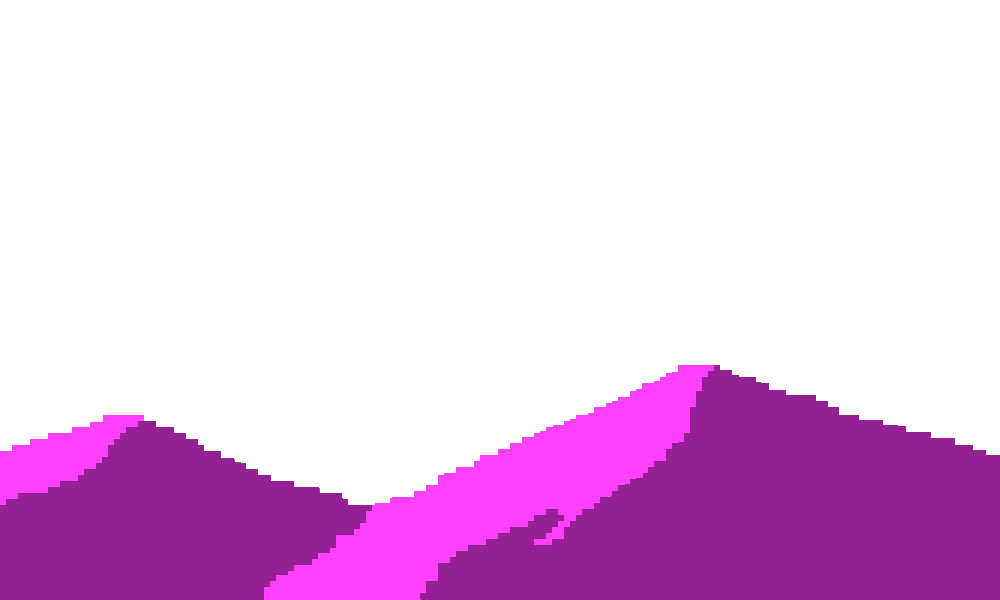
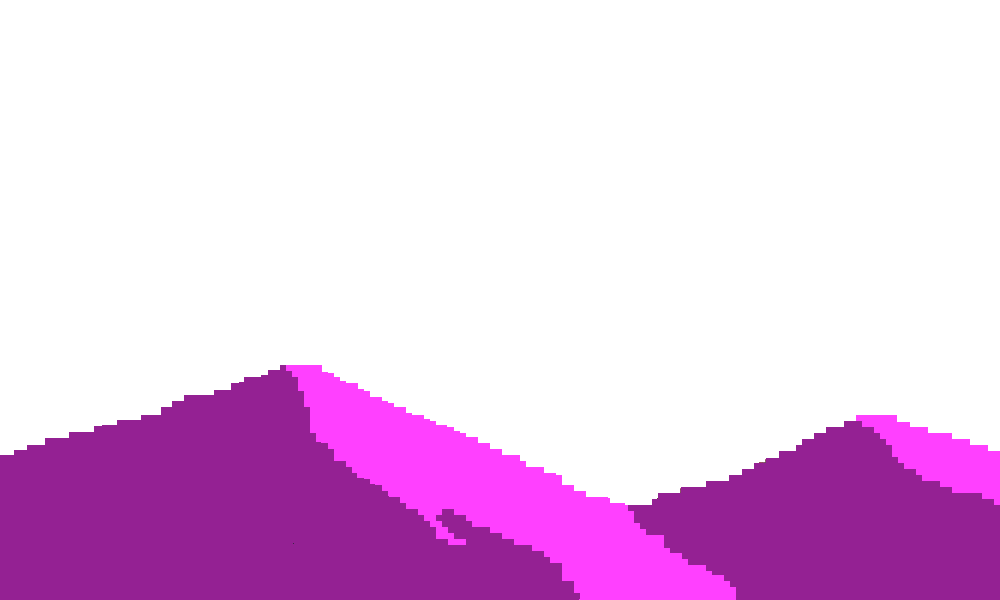
dos jugadores, estructuras, y algunas propiedades de los bloques

Changed region(s): [[0.0, 0.6, 1.0, 1.0]]

diff --git a/main.js b/main.js
@@ -1,5 +1,6 @@
 var canvas = document.getElementById('main-game');
 var ctx = canvas.getContext('2d')
+var images =['assets/player/running.png','assets/player/runningp2.png']
 
 var red = 255
 var green;
@@ -27,7 +28,7 @@ function Background(){
 
   this.move = function(){
     if(this.x < -this.width * 2) this.x = 0;
-    this.x-=2;
+    this.x-=7;
   }
   this.draw = function(){
     this.move()
@@ -43,19 +44,20 @@ function Background(){
   }
 
   this.drawMountain1 = function(){
-    ctx.drawImage(this.imgMountainsOrange,this.x,this.y + 30,this.width,this.height)
-    ctx.drawImage(this.imgMountainsOrange2,this.x +this.width,this.y + 30,this.width,this.height)
-    ctx.drawImage(this.imgMountainsOrange,this.x + this.width * 2,this.y + 30,this.width,this.height)
+    ctx.drawImage(this.imgMountainsOrange,this.x * 2,this.y + 70,this.width,this.height)
+    ctx.drawImage(this.imgMountainsOrange2,this.x*2 +this.width,this.y + 70,this.width,this.height)
+    ctx.drawImage(this.imgMountainsOrange,this.x*2 + this.width * 2,this.y + 70,this.width,this.height)
+    ctx.drawImage(this.imgMountainsOrange2,this.x*2 + this.width * 3,this.y + 70,this.width,this.height)
+    ctx.drawImage(this.imgMountainsOrange,this.x*2 + this.width * 4,this.y + 70,this.width,this.height)
   }
   this.drawMountain2 = function(){
-    var x = this.x /2
-    ctx.drawImage(this.imgMountainsPurple,x - 300,this.y,this.width,this.height)
-    ctx.drawImage(this.imgMountainsPurple2,x - 300 + this.width,this.y,this.width,this.height)
-    ctx.drawImage(this.imgMountainsPurple,x - 300 + this.width * 2,this.y,this.width,this.height)
+    ctx.drawImage(this.imgMountainsPurple,this.x,this.y,this.width,this.height)
+    ctx.drawImage(this.imgMountainsPurple2,this.x + this.width,this.y,this.width,this.height)
+    ctx.drawImage(this.imgMountainsPurple,this.x + this.width * 2,this.y,this.width,this.height)
   }
 }
-function Block(y){
-  this.x = 0;
+function Block(x,y){
+  this.x = x ? x : canvas.width
   this.y = y;
   this.width = 32;
   this.height = 32;
@@ -64,51 +66,126 @@ function Block(y){
 
   this.draw = function(){
     ctx.drawImage(this.img,this.x,this.y,this.width,this.height)
-    this.x += 1
+    this.x -= 1
   }
 }
-function Player(){
+function Structure(){
+  this.x                  = canvas.width
+  this.y                  = canvas.height - 64
+  this.structureSelector  = [
+                              [ new Block(this.x + 160,this.y),
+                                new Block(this.x,this.y -32),
+                                new Block(this.x+32,this.y -32),                               
+                                new Block(this.x + 160,this.y -32),
+                                new Block(this.x,this.y -64),
+                                new Block(this.x + 128,this.y -64),
+                                new Block(this.x + 160,this.y -64),
+                                new Block(this.x,this.y -96),
+                                new Block(this.x,this.y -128),
+                                new Block(this.x,this.y -160),
+                                new Block(this.x + 32,this.y -160),
+                                new Block(this.x + 64,this.y -160),
+                                new Block(this.x + 96,this.y -160),
+                                new Block(this.x + 128,this.y -160),
+                                new Block(this.x + 160,this.y -160),
+                              ],
+                              [ new Block(this.x,this.y),
+                                new Block(this.x + 32,this.y),
+                                new Block(this.x + 64,this.y),
+                                new Block(this.x + 224,this.y),
+                                new Block(this.x + 256,this.y),
+                                new Block(this.x + 32,this.y - 32),
+                                new Block(this.x + 64,this.y - 32),
+                                new Block(this.x + 128,this.y - 32),
+                                new Block(this.x + 160,this.y - 32),
+                                new Block(this.x + 256,this.y - 32),
+                                new Block(this.x + 64,this.y - 64),
+                                new Block(this.x + 128,this.y - 64),
+                                new Block(this.x + 128,this.y - 96),
+                                new Block(this.x + 160,this.y - 96),
+                                new Block(this.x + 192,this.y - 96),
+                                new Block(this.x + 224,this.y - 96),
+                                new Block(this.x + 256,this.y - 96)
+                              ],
+                              [ new Block(this.x,this.y),
+                                new Block(this.x + 128,this.y),
+                                new Block(this.x + 160,this.y),
+                                new Block(this.x + 192,this.y),
+                                new Block(this.x + 64,this.y - 32),
+                                new Block(this.x + 160,this.y - 32),
+                                new Block(this.x + 192,this.y - 32),
+                                new Block(this.x + 32,this.y - 64),
+                                new Block(this.x + 64,this.y - 64),
+                                new Block(this.x + 96,this.y - 64),
+                                new Block(this.x + 192,this.y - 64),
+                                new Block(this.x + 32,this.y - 96),
+                                new Block(this.x + 192,this.y - 96),
+                                new Block(this.x + 96,this.y - 128),
+                                new Block(this.x + 128,this.y - 128),
+                                new Block(this.x + 160,this.y - 128),
+                                new Block(this.x + 192,this.y - 128),
+
+                              ]
+                            ]
+  this.img = new Image()
+  this.img.src = 'assets/block.png'
+
+  this.draw = function(){
+    structures.push(this.structureSelector[structureNumber])
+  this.x -= 1
+}
+}
+function Player(image){
   this.which     = true;
-  this.x         = 50;
+  this.x         = canvas.width - 32;
   this.y         = 50;
-  this.width     = 21;
-  this.height    = 36;
+  this.width     = 18;
+  this.height    = 28;
   this.frame     = 2;
   this.jumping   = false;
+  this.canMove   = true;
+  this.right     = true;
   this.sheet     = new Image()
-  this.sheet.src = 'assets/player/running.png'
+  this.sheet.src = image
  
 
   this.runAnimation = function () {
+    this.x --
     if(this.jumping){
       this.frame = 5
-      this.y-=7
+      this.y-=10
     }else{
       this.y+=5
     }
-    ctx.drawImage(this.sheet,this.frame * 21 ,0,this.width,this.height, this.x, this.y,this.width,this.height)
+    ctx.drawImage(this.sheet,this.frame * 21 ,0,this.width,this.height + 2, this.x, this.y,this.width,this.height)
   }
 
   this.moveRight = function(){
-    if (this.frame <3){
-      this.frame = 3;
-    } else {
-      this.frame = 2
+    this.right = true;
+    this.x += 15
+    if(!this.jumping){
+      if (this.frame <3){
+        this.frame = 3;
+       } else {
+        this.frame = 2
     }
-    this.x += 10
+  }
   }
   this.moveLeft = function(){
+    this.right = false;
+    this.x -= 15
+    if(!this.jumping){
     if (this.frame >0){
       this.frame = 0;
     } else {
       this.frame = 1
-    }
-    this.x -= 10
+    }    
+  }
   }
   this.jump = function(){
-    if(!this.jumping && this.isTouching){
-      setTimeout(this.fall,300);
+    if(!this.jumping){
       this.jumping = true
+      setTimeout(this.fall,150);
     } 
     
   }
@@ -116,23 +193,26 @@ function Player(){
     this.frame = 4
     this.jumping = false;
   }.bind(this)
+
   this.isTouching = function(block){
       return (this.x < block.x + block.width) &&
         (this.x + this.width > block.x) &&
-        (this.y < block.y + block.height) &&
-        (this.y + this.height > block.y);
+        (this.y + this.height > block.y) &&
+        (this.y < block.height + block.y);
     }
+
+
+ 
 }
 
 
-
-
-var background = new Background
-var player = new Player()
-var blocks = []
+var background = new Background();
+var player = new Player(images[0]);
+var player2 = new Player(images[1]);
+var blocks = [];
+var structures = [];
 var interval;
-var frames = 0
-
+var frames = 0;
 
 function changeColor(){
   if(redDir){
@@ -145,45 +225,113 @@ function changeColor(){
   if(red === 0)redDir = false
   green = red - 50
   color = 'rgb('+red+','+green+',145)';
-  console.log(color)
 }
+
 function generateBlocks(){
   if(!(frames % 32 === 0)) return
   var randomY = Math.floor(Math.random()*300)+300
-  var block = new Block(canvas.height - 32)
+  var block = new Block(null,canvas.height - 32)
   blocks.push(block)
 }
+
+function generateStructures(){
+  if(!(frames % 320 === 0)) return
+  var randomStructure = Math.floor(Math.random()*3)
+  var structure = new Structure()
+  structures.push(structure.structureSelector[randomStructure])
+}
+
+// function generateRandomBlocks(){
+//   if(!(frames % 32 === 0)) return
+//   var randomY = Math.floor(Math.random()*300)+236
+//   var block = new Block(randomY)
+//   blocks.push(block)
+// }
+
+
 
 function drawBlocks(){
   blocks.forEach(function(block){
     block.draw()
   })
+    structures.forEach(function(st){
+      st.forEach(function(block){
+        block.draw()
+      });
+    })
+  
 }
-
-function checkCollision(block){
-    blocks.forEach(function(block){
-    if(player.isTouching(block))player.y-=5
+function deleteBlocks(){
+  blocks.forEach(function(block){
+    if(block.x < -32){
+      blocks.shift(block)
+    }
+  })
+  structures.forEach(function(st){
+    st.forEach(function(block){
+        if(block.x < -300){
+          st.shift(block)
+        }
+      });
   })
 }
 
+function checkCollision(){
+    blocks.forEach(function(block){
+    if(player.isTouching(block))player.y-=5
+    if(player2.isTouching(block))player2.y-=5
+  });
+    structures.forEach(function(st){
+      st.forEach(function(block){
+        //izquierda
+        if(player.isTouching(block) && player.x<block.x)player.x = block.x - player.width
+        if(player2.isTouching(block) && player2.x<block.x)player2.x = block.x - player2.width
+        //derecha
+        if(player.isTouching(block) && player.x+player.width>block.x+block.width)player.x = block.x + block.width
+        if(player2.isTouching(block) && player2.x+player2.width>block.x+block.width)player2.x = block.x + block.width
+
+        //top
+        if(player.isTouching(block) && player.y<block.y){
+          player.y-=5;  
+        }
+        if(player2.isTouching(block) && player2.y<block.y){
+          player2.y-=5;  
+        }
+        //abajo
+        if(player.isTouching(block) && player.y+player.height>block.y+block.height){
+          player.y = block.y + block.height
+        }
+        if(player2.isTouching(block) && player2.y+player2.height>block.y+block.height){
+          player2.y = block.y + block.height
+        }
+    // })
+})
+})
+}
 function start(){
   if(interval > 0)return
   interval = setInterval(function(){
     update()
   },1000/60)
 }
+function pause(){
+  clearInterval(interval)
+}
 
 function update(){
-
   changeColor()
   frames++
   ctx.clearRect(0,0,canvas.width,canvas.height)
   background.draw();
-  generateBlocks()
-  drawBlocks()
-  player.runAnimation()
+  generateBlocks();
+  // generateRandomBlocks()
+  generateStructures();
+  drawBlocks();
+  deleteBlocks();
+  player.runAnimation();
+  player2.runAnimation();
   checkCollision()
-  
+
 }
 
 document.getElementById('start').addEventListener('click',start)
@@ -191,5 +339,9 @@ addEventListener('keydown', function(e){
   if(e.keyCode === 39) player.moveRight();
   if(e.keyCode === 37) player.moveLeft();
   if(e.keyCode === 38) player.jump()
+
+  if(e.keyCode === 68) player2.moveRight();
+  if(e.keyCode === 65) player2.moveLeft();
+  if(e.keyCode === 87) player2.jump()
 })
  

diff --git a/styles.css b/styles.css
@@ -7,3 +7,9 @@ body{
   flex-direction: column;
   align-items: center
 }
+.start{
+  background-color: blue
+}
+.pause{
+  background-color: red
+}
